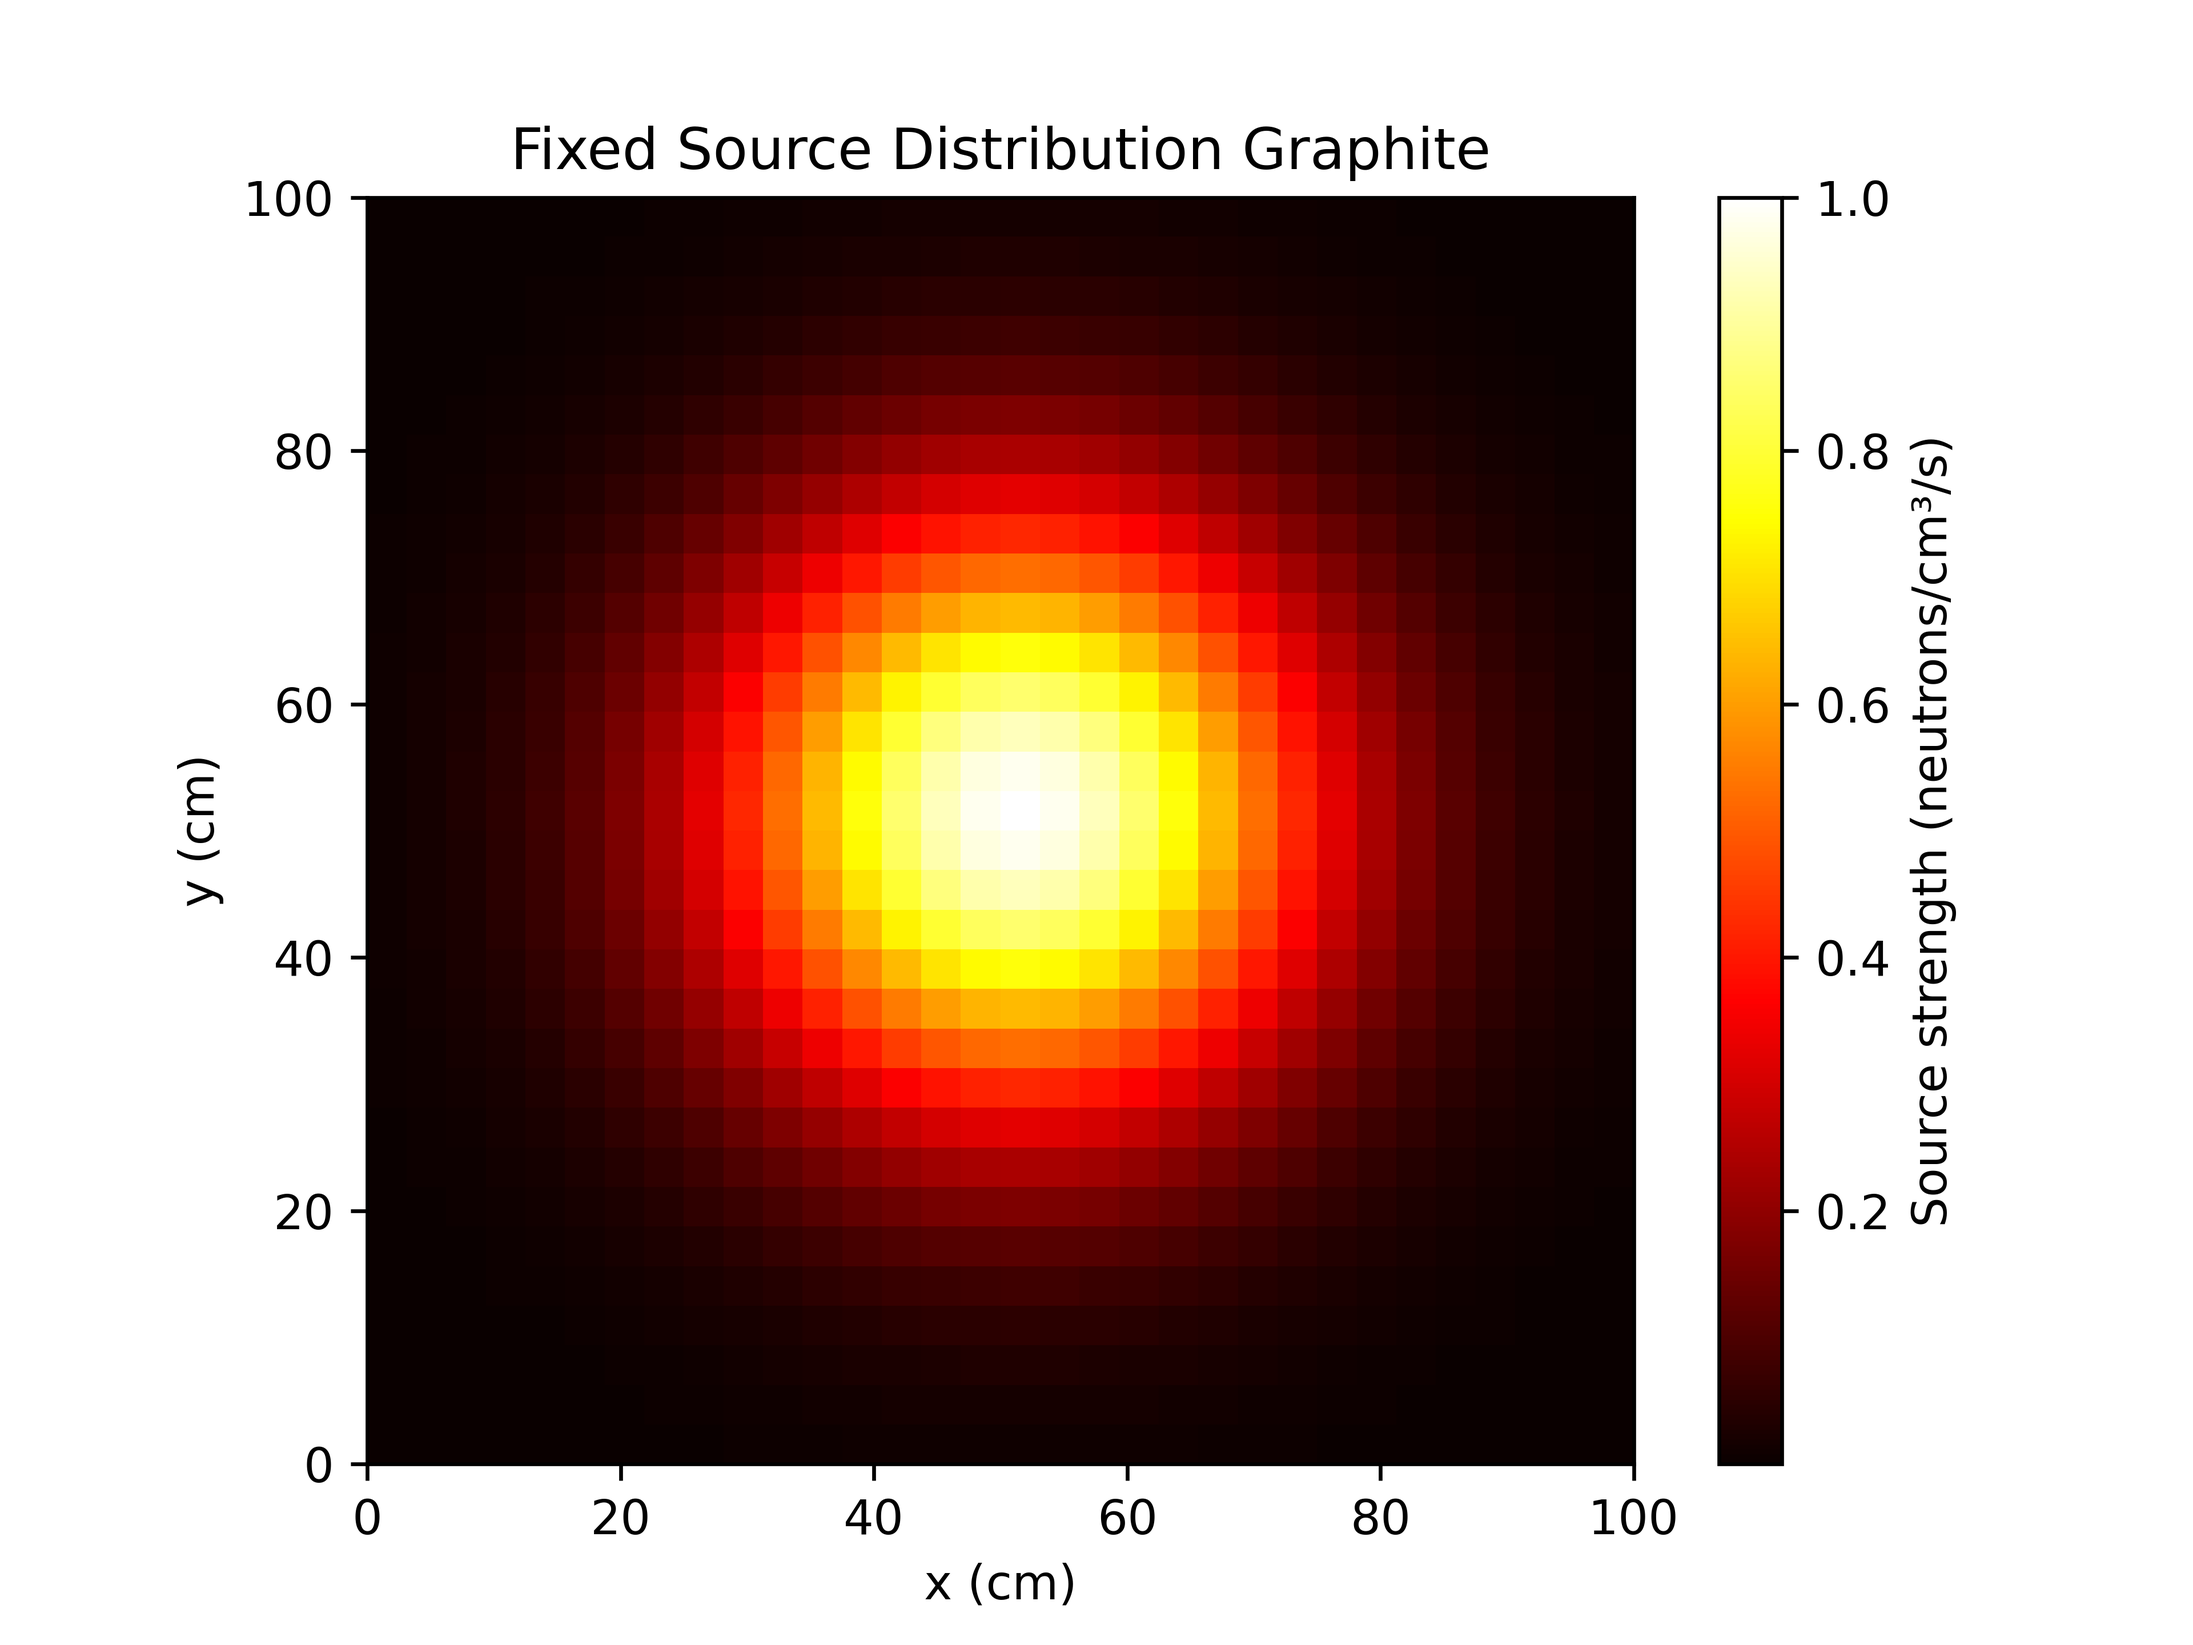
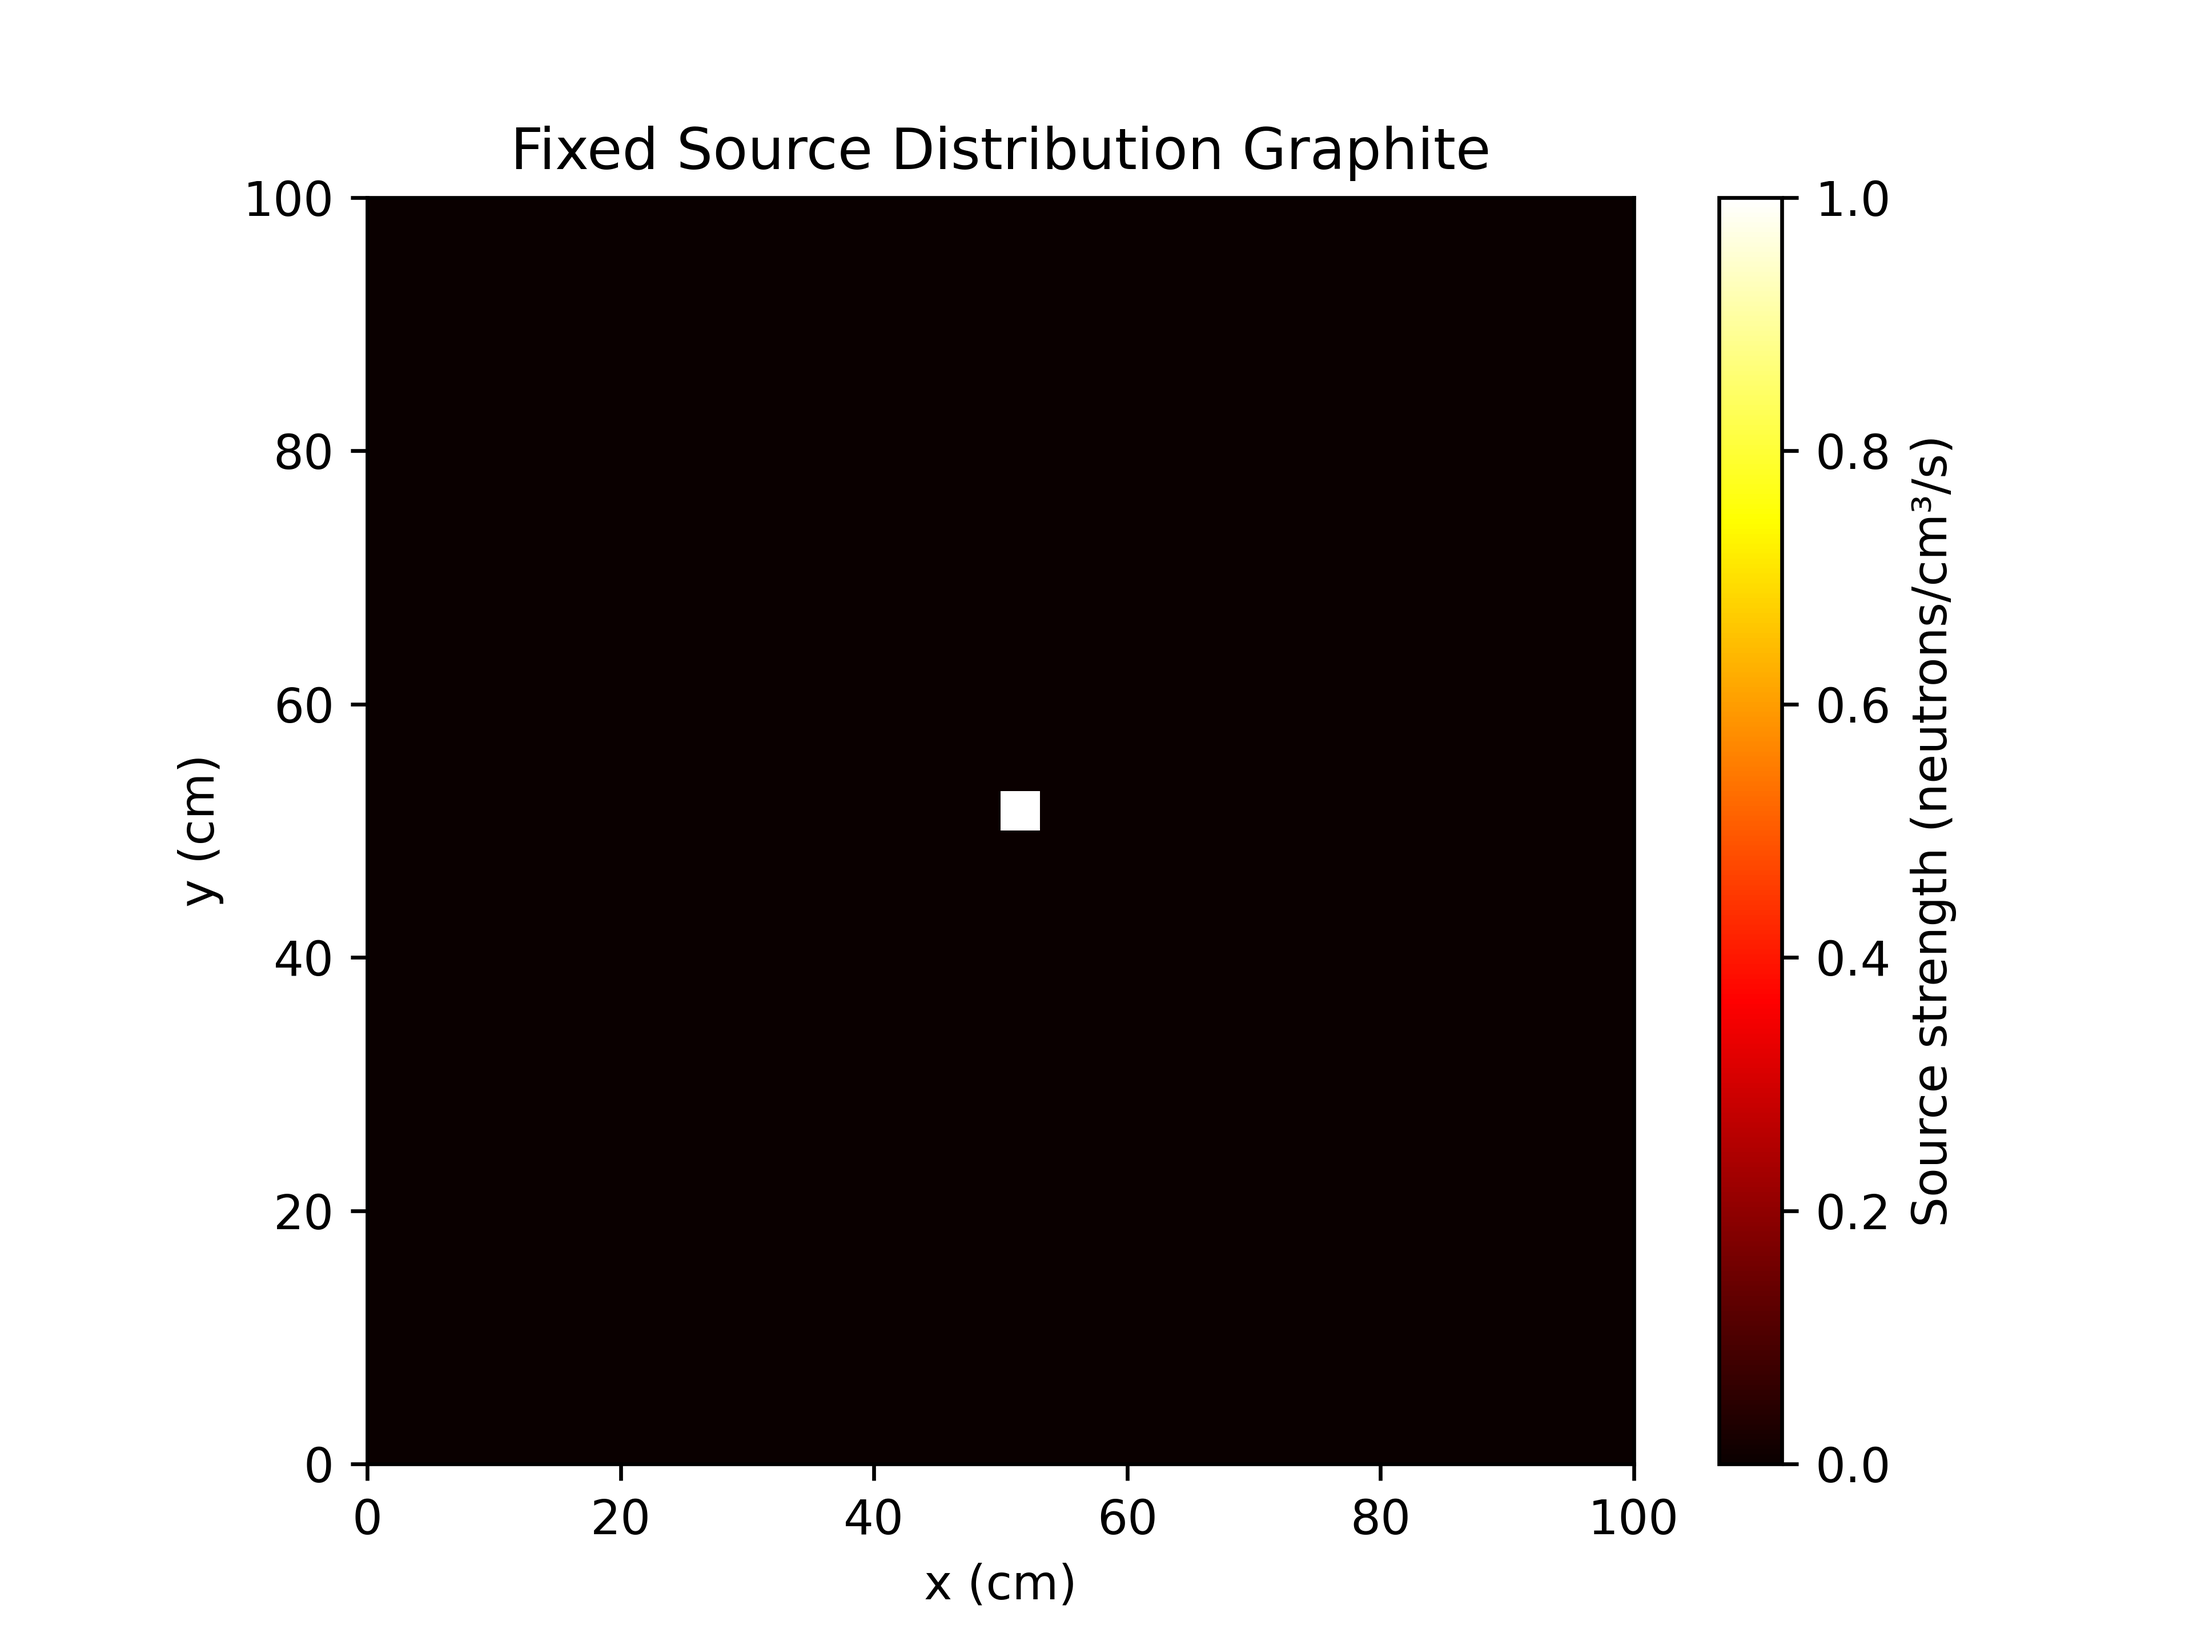
pre outlab6

Changed region(s): [[0.2188, 0.1562, 0.7188, 0.8438], [0.8125, 0.875, 0.875, 0.9062]]

diff --git a/src/project/project1/scripts/generate_point_source.py b/src/project/project1/scripts/generate_point_source.py
@@ -1,0 +1,76 @@
+import numpy as np
+
+np.random.seed(42)
+
+# Define the mean and standard deviation for the normally distributed fixed source
+mean = 1.0E-5
+std_dev = 1.0E-20
+min_ = 1.0E-7
+max_ = 2.0E-4
+def gaussian(x, y, mu_x, mu_y, sigma_x, sigma_y):
+    return np.exp(-((x - mu_x)**2 / (2 * sigma_x**2) + (y - mu_y)**2 / (2 * sigma_y**2)))
+
+def apply_gaussian(m, n, filepath):
+    gaussian_params = [
+        {"mu_x": mean, "mu_y": mean, "sigma_x": std_dev, "sigma_y": std_dev},
+    ]
+    q = np.zeros((m, n))
+    # for params in gaussian_params:
+    #     for i in range(m):
+    #         for j in range(n):
+    #             q[i, j] += gaussian(i, j, params["mu_x"], params["mu_y"], params["sigma_x"], params["sigma_y"])
+        # q += np.random.uniform(min_, max_, (m, n))
+    # Normalize the source strength to a desired maximum value, e.g., 1.0
+    q[int(m/2), int(n/2)] = mean
+    q = q / np.max(q)
+    # Save the matrix to a CSV file
+    np.savetxt(filepath, q, delimiter=",", fmt="%.6f")
+
+
+def plot_map(inputfile, outputfile):
+    import numpy as np
+    import matplotlib.pyplot as plt
+
+    # Load the q_matrix from the CSV file
+    q_matrix = np.loadtxt(inputfile, delimiter=",")
+    # Create a heatmap using matplotlib
+    plt.imshow(q_matrix, cmap='hot', interpolation='nearest', origin='lower', extent=[0, 100, 0, 100])
+    plt.colorbar(label='Source strength (neutrons/cm³/s)')
+
+    # Set the plot title and axis labels
+    plt.title('Fixed Source Distribution Graphite')
+    plt.xlabel('x (cm)')
+    plt.ylabel('y (cm)')
+
+    # Save the heatmap to a file
+    plt.savefig(outputfile, dpi=600)
+    plt.close()
+
+# apply_gaussian(2, 2,   "../analysis/sources/raw/project1_sources_2x2.csv")
+# plot_map("../analysis/sources/raw/project1_sources_2x2.csv", "../analysis/sources/plots/project1_sources_2x2.png")
+#
+# apply_gaussian(4, 4,   "../analysis/sources/raw/project1_sources_4x4.csv")
+# plot_map("../analysis/sources/raw/project1_sources_4x4.csv", "../analysis/sources/plots/project1_sources_4x4.png")
+#
+# apply_gaussian(8, 8,   "../analysis/sources/raw/project1_sources_8x8.csv")
+# plot_map("../analysis/sources/raw/project1_sources_8x8.csv", "../analysis/sources/plots/project1_sources_8x8.png")
+#
+# apply_gaussian(16, 16,   "../analysis/sources/raw/project1_sources_16x16.csv")
+# plot_map("../analysis/sources/raw/project1_sources_16x16.csv", "../analysis/sources/plots/project1_sources_16x16.png")
+#
+# apply_gaussian(32, 32,   "../analysis/sources/raw/project1_sources_32x32.csv")
+# plot_map("../analysis/sources/raw/project1_sources_32x32.csv", "../analysis/sources/plots/project1_sources_32x32.png")
+#
+# apply_gaussian(64, 64,   "../analysis/sources/raw/project1_sources_64x64.csv")
+# plot_map("../analysis/sources/raw/project1_sources_64x64.csv", "../analysis/sources/plots/project1_sources_64x64.png")
+#
+# apply_gaussian(128, 128,   "../analysis/sources/raw/project1_sources_128x128.csv")
+# plot_map("../analysis/sources/raw/project1_sources_128x128.csv", "../analysis/sources/plots/project1_sources_128x128.png")
+#
+
+# plot_map("../analysis/fluxes/raw/project1_fluxes_2x2.csv", "../analysis/fluxes/plots/project1_fluxes_2x2.png")
+# plot_map("../analysis/fluxes/raw/project1_fluxes_4x4.csv", "../analysis/fluxes/plots/project1_fluxes_4x4.png")
+# plot_map("../analysis/fluxes/raw/project1_fluxes_8x8.csv", "../analysis/fluxes/plots/project1_fluxes_8x8.png")
+# plot_map("../analysis/fluxes/raw/project1_fluxes_16x16.csv", "../analysis/fluxes/plots/project1_fluxes_16x16.png")
+plot_map("../analysis/fluxes/raw/project1_fluxes_32x32.csv", "../analysis/fluxes/plots/project1_fluxes_32x32.png")
+# plot_map("../analysis/fluxes/raw/project1_fluxes_64x64.csv", "../analysis/fluxes/plots/project1_fluxes_64x64.png")
